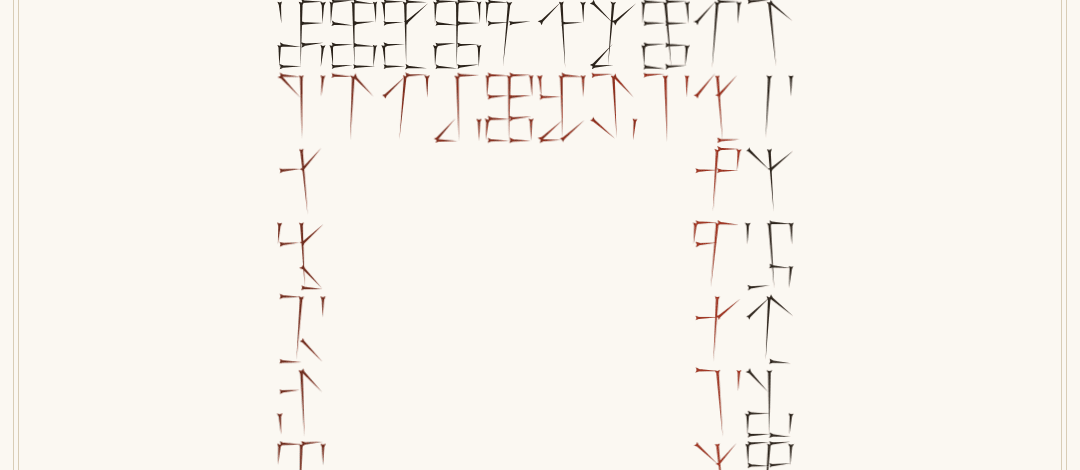
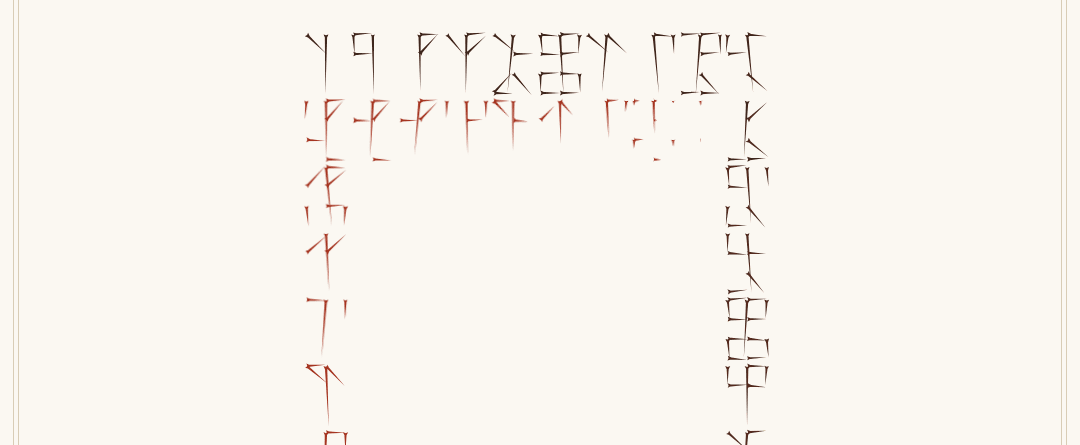
Wedges are drawn: the stylus bites at the head and runs to the tip
Like the ink line before them, every wedge is now drawn: it grows along its
stroke from where the stylus bites, wet in the mode's colour, then dries.

- ink.js reads where a wedge bites and which way it runs from its own outline
  (Stylus writes the head's back corners and the tail's tip in a known order),
  so plates need no extra attributes and exports stay as they were.
- Plates hold one path per stroke (was one per sign), in reading order, so
  they can be drawn stroke by stroke. The largest plate is ~1.4 MB (limit 2 MB).
- Drawing and drying are two animations in turn: animating shape and colour
  together on thousands of SVG paths dropped Chromium to 10 fps. Plates past
  1,200 wedges are there at once and only their ink dries along the path:
  57 to 61 fps measured from 550 to 4,473 wedges.
- Lighting a corner dries its ink at once; a stroke on its way still runs.

Claude-Session: https://claude.ai/code/session_01MHbzLy4KC92hgoHUmKepG4

diff --git a/public/js/ink.js b/public/js/ink.js
@@ -1,8 +1,9 @@
 // Cistergraphia ink: the one motion vocabulary of the UI.
 //
 // Every sign is pressed, as a stylus leaves it in clay: each stroke is a
-// wedge. A stroke is never popped in: it is *pressed* (it appears wet in the
-// mode's colour, then dries to ink) or *lifted* (it fades). Changing a sign
+// wedge. A stroke is never popped in: it is *pressed* (the stylus bites at its
+// head and runs to its tip, wet in the mode's colour, then the ink dries) or
+// *lifted* (it fades). Changing a sign
 // *morphs* it: shared strokes stay, the others lift or are pressed. Under
 // prefers-reduced-motion everything is instant.
 //
@@ -52,34 +53,81 @@
     return wedge;
   }
 
-  // Classes are removed when dry, so static styles (highlights) apply again
-  // and nothing lingers in exported files
-  const drying = new WeakSet();
-  function dried(event) {
-    if (event.animationName === 'ink-dry') dry(event.currentTarget);
+  // Where a wedge bites and which way it runs, read from its outline:
+  // Cistergraphia::Stylus writes the head's back corners first and third (the
+  // stroke's start lies between them) and the tail's tip second in the tail
+  function bite(mark) {
+    const n = (mark.getAttribute('d') || '').match(/-?\d+(?:\.\d+)?/g) || [];
+    if (n.length !== 14) return null; // not a wedge
+    const [x, y] = [(Number(n[0]) + Number(n[4])) / 2, (Number(n[1]) + Number(n[5])) / 2];
+    return { x, y, angle: (Math.atan2(Number(n[11]) - y, Number(n[10]) - x) * 180) / Math.PI };
   }
 
-  // Finish drying now (the mark stays where it is, in ink)
+  // When the wedge is drawn and its ink dry, its classes and styles go, so
+  // static styles (highlights) apply again and nothing lingers in exported files
+  function settle(mark) {
+    mark.classList.remove('ink-press', 'is-wet', 'ink-dry');
+    ['--delay', '--dry-delay', '--ox', '--oy', '--a', '--from'].forEach((name) => mark.style.removeProperty(name));
+    ['class', 'style'].forEach((name) => { if (!mark.getAttribute(name)) mark.removeAttribute(name); });
+  }
+
+  // At the tip the stylus lifts: a wet wedge hands over to drying
+  function ended(event) {
+    const mark = event.currentTarget;
+    if (event.animationName === 'ink-press' && mark.classList.contains('is-wet')) {
+      mark.classList.remove('ink-press', 'is-wet');
+      mark.classList.add('ink-dry');
+    } else if (event.animationName === 'ink-press' || event.animationName === 'ink-dry') {
+      settle(mark);
+    }
+  }
+
+  // Dry the ink now: the wedge is in ink at once, and still runs to its tip
+  // if the stylus is on its way
   function dry(mark) {
-    if (!mark.classList.contains('ink-press')) return;
-    mark.classList.remove('ink-press');
-    mark.style.removeProperty('--delay');
+    mark.classList.remove('is-wet');
+    if (mark.classList.contains('ink-dry')) settle(mark);
   }
 
+  const listening = new WeakSet();
   function listen(mark) {
-    if (drying.has(mark)) return;
-    drying.add(mark);
-    mark.addEventListener('animationend', dried);
+    if (listening.has(mark)) return;
+    listening.add(mark);
+    mark.addEventListener('animationend', ended);
   }
 
-  // Press a wedge (a stroke, or a plate's whole sign): wet in the mode's colour, then drying
+  // Press a wedge: the stylus bites at its head and runs to its tip, wet in
+  // the mode's colour, then the ink dries
   function press(mark, delay = 0) {
     if (reducedMotion) return;
+    const at = bite(mark);
+    if (at) {
+      mark.style.setProperty('--ox', at.x.toFixed(1));
+      mark.style.setProperty('--oy', at.y.toFixed(1));
+      mark.style.setProperty('--a', `${at.angle.toFixed(1)}deg`);
+      mark.style.setProperty('--from', '0.02');
+    }
     mark.style.setProperty('--delay', `${Math.round(delay)}ms`);
-    mark.classList.remove('ink-press');
-    mark.getBoundingClientRect(); // restart the animation
-    mark.classList.add('ink-press');
+    restart(mark);
+    mark.classList.add('ink-press', 'is-wet');
     listen(mark);
+  }
+
+  // A wedge already there, wet, that dries in its turn: for plates too long to
+  // draw stroke by stroke, where the drying front alone shows the reading order
+  function wet(mark, delay = 0) {
+    if (reducedMotion) return;
+    mark.style.setProperty('--dry-delay', `${Math.round(delay)}ms`);
+    restart(mark);
+    mark.classList.add('ink-dry');
+    listen(mark);
+  }
+
+  // Pressed again: restart (a reflow, only then)
+  function restart(mark) {
+    if (!mark.classList.contains('ink-press') && !mark.classList.contains('ink-dry')) return;
+    mark.classList.remove('ink-press', 'is-wet', 'ink-dry');
+    mark.getBoundingClientRect();
   }
 
   function lift(mark) {
@@ -145,5 +193,5 @@
     return text.toLowerCase().replace(/[^a-z ]/g, ' ').replace(/ +/g, ' ').trim();
   }
 
-  window.Ink = { glyphTable, digitsOf, strokesOf, glyph, adopt, morph, press, dry, lift, normalize, reducedMotion, PLACES };
+  window.Ink = { glyphTable, digitsOf, strokesOf, glyph, adopt, morph, press, wet, dry, lift, normalize, reducedMotion, PLACES };
 })();

diff --git a/public/css/app.css b/public/css/app.css
@@ -711,22 +711,32 @@ input[aria-invalid="true"] { border-color: var(--accent); box-shadow: 0 0 0 3px 
 @keyframes ink { to { stroke-dashoffset: 0; } }
 
 /* ---------- Ink: the one motion vocabulary (see public/js/ink.js) ---------- */
-/* A wedge (a stroke of a sign, or a plate's whole sign) is pressed: it appears
-   wet in the mode's colour, then dries to ink. Its colour dries, not its fill,
-   so a wedge's optical weight (its stroke) dries with it. */
+/* A wedge is pressed: the stylus bites at its head and runs to its tip, wet in
+   the mode's colour (is-wet), then the ink dries. ink.js reads where it bites
+   (--ox, --oy, in the sign's units) and which way it runs (--a) from the wedge
+   itself; the wedge grows along its stroke from there. The two phases are two
+   animations, one after the other (ink.js hands over): animating shape and
+   colour at once on thousands of SVG paths costs more than a frame. Colour
+   dries, not fill, so a small sign's optical weight (its stroke) dries with it.
+   Lighting a corner dries the ink at once (is-wet goes); the stroke still runs. */
 path.ink-press {
-  animation-name: ink-press, ink-dry;
-  animation-duration: var(--dur-stroke), var(--dur-dry);
-  animation-timing-function: var(--ease-ink), ease-out;
-  animation-delay: var(--delay), calc(var(--delay) + var(--dur-stroke));
-  animation-fill-mode: both;
+  transform-box: view-box;
+  transform-origin: calc(var(--ox, 0) * 1px) calc(var(--oy, 0) * 1px);
+  animation: ink-press var(--dur-stroke) var(--ease-ink) var(--delay) both;
 }
-@keyframes ink-press { from { opacity: 0; } }
+path.ink-press.is-wet { color: var(--accent); }
+@keyframes ink-press {
+  from { opacity: 0; transform: rotate(var(--a, 0deg)) scaleX(var(--from, 1)) rotate(calc(-1 * var(--a, 0deg))); }
+  5% { opacity: 1; }
+  to { opacity: 1; transform: rotate(var(--a, 0deg)) scaleX(1) rotate(calc(-1 * var(--a, 0deg))); }
+}
+path.ink-dry { animation: ink-dry var(--dur-dry) ease-out var(--dry-delay, 0ms) both; }
 @keyframes ink-dry { from { color: var(--accent); } }
 path.ink-lift { animation: ink-lift var(--dur-lift) var(--ease) forwards; }
 @keyframes ink-lift { to { opacity: 0; } }
 /* A highlighted corner: the strokes of one place, in the mode's colour */
 .glyph path { transition: color 0.3s var(--ease); }
+.glyph path.ink-press { transition: none; } /* wet from the first touch */
 .glyph path.is-lit { color: var(--accent); }
 
 /* ---------- Transcription reveal ---------- */

diff --git a/public/js/app.js b/public/js/app.js
@@ -364,14 +364,20 @@
     return $('[data-plate] svg');
   }
 
-  // Press each sign in reading order (one wedge path per sign, in that order):
-  // the wet rubric front follows the path, coiling in or climbing the rows
+  // Press each stroke in reading order (one wedge path per stroke, in that
+  // order): the wet rubric front follows the path, coiling in or climbing the rows.
+  // Drawing every stroke holds 60 fps up to about a thousand wedges (measured in
+  // Chromium); beyond, the signs are too small to see a stroke run and the
+  // browser too busy to draw them, so the plate is there at once and only its
+  // ink dries along the path.
+  const DRAWN_WEDGES = 1200;
   function inkPlate() {
     const svg = plateSvg();
     if (!svg || reducedMotion) return;
-    const signs = $$('path', svg);
-    const step = Math.min(70, 2800 / (signs.length || 1));
-    signs.forEach((sign, i) => Ink.press(sign, i * step));
+    const wedges = $$('path', svg);
+    const step = Math.min(70, 2800 / (wedges.length || 1));
+    const ink = wedges.length <= DRAWN_WEDGES ? Ink.press : Ink.wet;
+    wedges.forEach((wedge, i) => ink(wedge, i * step));
   }
 
   function initPlateWalk() {

diff --git a/lib/cistergraphia/svg.rb b/lib/cistergraphia/svg.rb
@@ -7,7 +7,7 @@ module Cistergraphia
   # and reads it back. SVG is written as plain strings (numbers only, nothing to escape) and
   # parsed with REXML, so no native XML dependency is needed.
   #
-  # A plate shows its signs pressed in wedges (Stylus), one path per sign in
+  # A plate shows its signs pressed in wedges (Stylus), one path per stroke in
   # reading order, and keeps every stroke as a hidden <line>: what the decoder
   # reads. Plates drawn before the wedges (visible lines only) read the same.
   module SVG
@@ -54,21 +54,24 @@ module Cistergraphia
       SVG
     end
 
-    # Each sign pressed by the hand, as SVG path data, in reading order. A turned
-    # sign is pressed upright, then turned with its cell, as the scribe wrote it
-    # with the tablet turned. The hand is seeded by the sign's place in the
-    # reading order, so the same plate is always pressed the same way.
+    # Every stroke pressed by the hand, as SVG path data (one wedge each), sign
+    # by sign in reading order. A turned sign is pressed upright, then turned
+    # with its cell, as the scribe wrote it with the tablet turned. The hand is
+    # seeded by the sign's place in the reading order, so the same plate is
+    # always pressed the same way.
     def pressed(sequence, cols, layout)
-      path(cols, layout).zip(sequence).each_with_index.map do |((row, col, turned), num), index|
+      path(cols, layout).zip(sequence).each_with_index.flat_map do |((row, col, turned), num), index|
         press(num, turned, origin(row, col), Random.new(index))
       end
     end
 
     # One sign's wedges as path data, in its cell (turned half round if need be)
     def press(num, turned, (x, y), random)
-      Glyphs.strokes(num).flat_map { |stroke| Stylus.wedge(stroke, random) }.map do |polygon|
-        Stylus.outline(turned ? polygon.map { |px, py| [Glyphs::WIDTH - px, Glyphs::HEIGHT - py] } : polygon, x, y)
-      end.join
+      Glyphs.strokes(num).map do |stroke|
+        Stylus.wedge(stroke, random).map do |polygon|
+          Stylus.outline(turned ? polygon.map { |px, py| [Glyphs::WIDTH - px, Glyphs::HEIGHT - py] } : polygon, x, y)
+        end.join
+      end
     end
 
     # Absolute strokes of every symbol in reading order, turned where the path says so

diff --git a/test/stylus_test.rb b/test/stylus_test.rb
@@ -34,23 +34,24 @@ class StylusTest < Minitest::Test
     assert_match(/\AM[^Z]+ZM[^Z]+Z\z/, Stylus.press(Cistergraphia::Glyphs::STEM)) # a head and a tail
   end
 
-  def test_a_plate_is_pressed_one_path_per_sign_and_keeps_its_strokes_for_the_decoder
+  def test_a_plate_is_pressed_one_path_per_stroke_and_keeps_its_strokes_for_the_decoder
     svg = Cistergraphia.to_svg([1, 2, 3, 4])
     doc = REXML::Document.new(svg)
 
-    assert_equal 4, doc.root.get_elements('//path').size
+    assert_equal 4 + 4, doc.root.get_elements('//path').size # four stems, four units: one wedge each
     hidden = doc.root.get_elements('//g').find { |g| g['display'] == 'none' }
-    assert_equal 4 + 4, hidden.get_elements('line').size # four stems, four units
+    assert_equal 4 + 4, hidden.get_elements('line').size
     assert_equal [1, 2, 3, 4], Cistergraphia::SVG.read(svg)
     assert_equal svg, Cistergraphia.to_svg([1, 2, 3, 4]) # the same plate, pressed the same way
   end
 
   def test_turned_signs_are_pressed_upright_then_turned_with_their_cell
-    # Rongorongo 2 x 2: the bottom row upright, the top row turned and read right to left
+    # Rongorongo 2 x 2: the bottom row upright, the top row turned and read right to left.
+    # Each sign is a stem and a unit, so the stems are wedges 0, 2, 4 and 6.
     paths = REXML::Document.new(Cistergraphia.to_svg([1, 1, 1, 1], layout: :rongorongo)).root.get_elements('//path')
 
     assert_equal [100.0, 220.0], stem_start(paths[0]) # bottom left, upright: the stem's head on top
-    assert_equal [220.0, 200.0], stem_start(paths[2]) # top right, turned: the stem's head at the bottom
+    assert_equal [220.0, 200.0], stem_start(paths[4]) # top right, turned: the stem's head at the bottom
   end
 
   private
@@ -59,7 +60,7 @@ class StylusTest < Minitest::Test
     [(x1 + x2) / 2.0, (y1 + y2) / 2.0]
   end
 
-  # The centre of the back of the first wedge drawn in a sign: its stem's start
+  # The centre of the back of a stem's head: where the stem starts
   def stem_start(path)
     corner1, _point, corner2 = path['d'][/M([^Z]*)Z/, 1].split('L').map { |p| p.split.map(&:to_f) }
     midpoint(corner1, corner2).map { |v| v.round(0) }

diff --git a/lib/cistergraphia/stylus.rb b/lib/cistergraphia/stylus.rb
@@ -35,7 +35,10 @@ module Cistergraphia
     end
 
     # The outlines of one stroke (x1, y1, x2, y2), pressed: the head and the
-    # tail, each a closed polygon of [x, y] points
+    # tail, each a closed polygon of [x, y] points. The order of the points is
+    # read back by public/js/ink.js to draw the wedge: the head's back corners
+    # come first and third (the stroke's start lies between them), the tail's
+    # tip second in the tail (its end).
     def wedge(stroke, random)
       x1, y1, x2, y2 = ductus(stroke)
       angle, length, width, head_length = hand(x2 - x1, y2 - y1, random)

diff --git a/app.rb b/app.rb
@@ -30,7 +30,7 @@ require_relative 'web/view_helpers'
 
 class CistergraphiaApp < Sinatra::Base
   MAX_MESSAGE_LENGTH = 500 # ~1000 symbols, a 32x32 grid
-  MAX_SVG_BYTES = 2 * 1024 * 1024 # The largest plate (500 four-byte characters, sealed) is ~1.3 MB
+  MAX_SVG_BYTES = 2 * 1024 * 1024 # The largest plate (500 four-byte characters, sealed) is ~1.4 MB
   CONTENT_SECURITY_POLICY = [
     "default-src 'self'", "img-src 'self' data: blob:", "object-src 'none'", "base-uri 'none'",
     "form-action 'self'", "frame-ancestors 'none'"

diff --git a/docs/design.md b/docs/design.md
@@ -86,8 +86,8 @@ Motion and interaction follow four rules. Anything that breaks one does not ship
 
 1. **Motion only when it carries meaning.** Nothing loops, nothing moves for show; every
    animation either teaches how the cipher works or answers something you did.
-2. **One vocabulary: ink.** A wedge is *pressed* (it appears wet in the mode's colour, then
-   dries to iron-gall ink) or *lifted* (it fades). A sign changes by *morphing*:
+2. **One vocabulary: ink.** A wedge is *pressed* (the stylus bites at its head and runs to
+   its tip, wet in the mode's colour, then the ink dries to iron-gall) or *lifted* (it fades). A sign changes by *morphing*:
    shared strokes stay, only the difference is pressed. Never a pop, a bounce or a shake.
 3. **The game is reading.** The page invites you to read the signs yourself, at your own
    pace: no timers, no sound, no confetti. Mistakes are shown, not punished.
@@ -120,15 +120,19 @@ a corner first dries any wet ink: the only red left is what you should look at.
 | How to read a sign | The four corners are dials (click, or arrow keys up/down); only the changed strokes are rewritten; hovering a corner lights its strokes; some years name themselves (1098, 1115, 1153, this year) | How the places combine |
 | Inscribe | Choosing Secret unfolds the passphrase below the message | What sealing needs |
 | Inscribe key | Choosing a layout re-inks the "Order of reading" path, in place | Where the plate starts and how it runs |
-| Plate | Pressed sign by sign in reading order, the wet rubric front visibly coiling inward (or climbing the rows) | The reading order |
+| Plate | Pressed stroke by stroke in reading order, each wedge running from its head to its tip, the wet rubric front visibly coiling inward (or climbing the rows). Past 1,200 wedges (about 85 letters in a game) the signs are too small to see a stroke run: the plate is there at once and only its ink dries along the path, which keeps 60 fps | The reading order |
 | Plate | Walk it: point at a sign, or focus the plate and use the arrow keys / Home / End; a soft field glides along the path; "Sign 12 of 36 · 4127", with "upside down: turn the plate to read it" on turned signs | Reading the numerals, the first step of solving a game plate |
 | Plate (Rongorongo) | **Turn the plate**: the plate rotates half round, as the readers of Rapa Nui turned their tablets; the turned rows now read upright, and walking follows | Why every other row is upside down |
 | Transcription | The decoded message appears letter by letter after its initial | The payoff of decoding |
 | About · Lectio | Read the sign, type its number. Novice (units) → Monk (tens) → Prior (hundreds) → Abbot (thousands) every three in a row; a misread corner is lit (an empty corner is named as a zero) and you continue when ready; best run kept in the browser | Fluency in the signs |
 | Read | A received file's sign is pressed | Your file arrived |
 
-Implementation: `public/js/ink.js` holds the vocabulary (`press`, `dry`, `lift`, `morph`,
-`glyph`), `public/js/app.js` the interactions. The plate's cells and geometry come from
+Implementation: `public/js/ink.js` holds the vocabulary (`press`, `wet`, `dry`, `lift`, `morph`,
+`glyph`). A wedge's drawing is read from its own outline (where the head bites, which way the
+tail runs) and is a stretch along the stroke from there; drawing and drying are two animations
+in turn, never at once, because animating shape and colour together on thousands of SVG paths
+drops the frame rate several times over. `public/js/app.js` holds the interactions.
+The plate's cells and geometry come from
 `ViewHelpers#plate_cells_json` / `#plate_layout_json` (built from `Cistergraphia::SVG.path`, with
 each sign's turned flag), so walking the plate follows the real path. Turning is a class on
 the frame, never on the SVG, and exports strip every class, style and the walking field: the
@@ -152,7 +156,7 @@ downloaded SVG is unchanged.
 - **Progressive enhancement.** Without JS, every form works: both modes, decoding, and the
   read-it-back form. JS adds the mode switch, counter, reveal, exports, drag and drop, and
   the animation.
-- **Exports stay decodable.** A plate file holds its pressed wedges (one path per sign) and
+- **Exports stay decodable.** A plate file holds its pressed wedges (one path per stroke) and
   every stroke as a hidden `<line>`: the decoder reads the lines, the wedges are only the look,
   and plates drawn before the wedges still read. Display styling is CSS-only, and the
   animation's inline styles are stripped before Download SVG, PNG or Copy.
